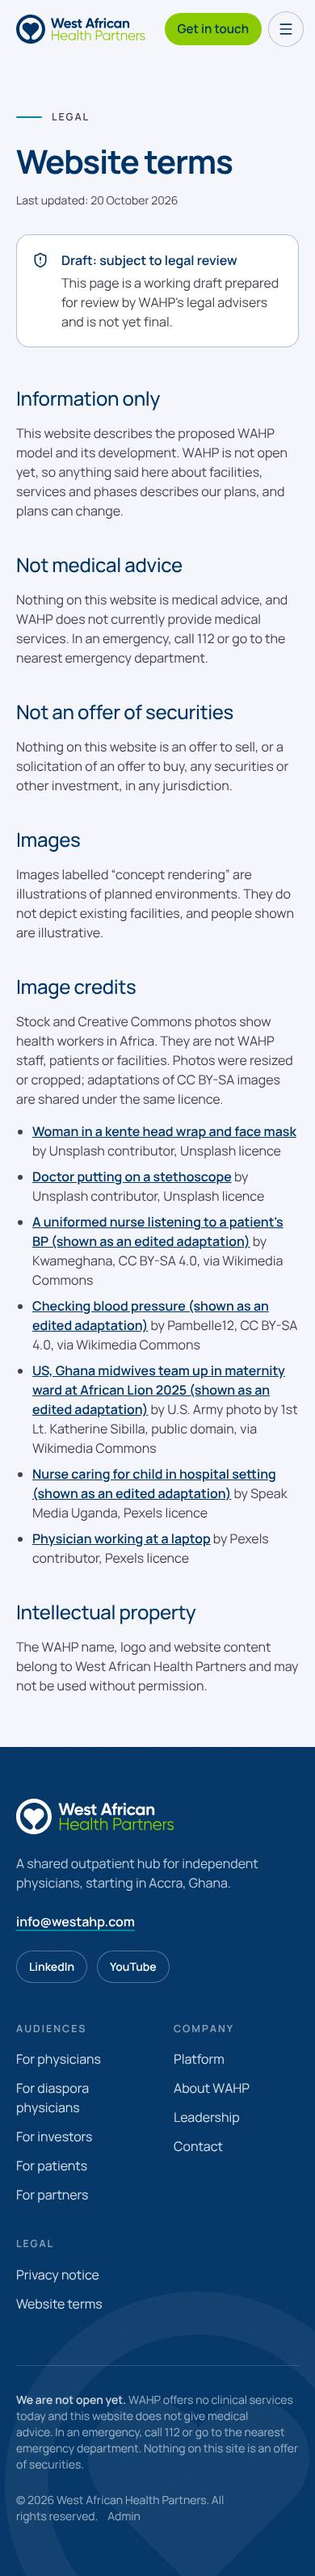
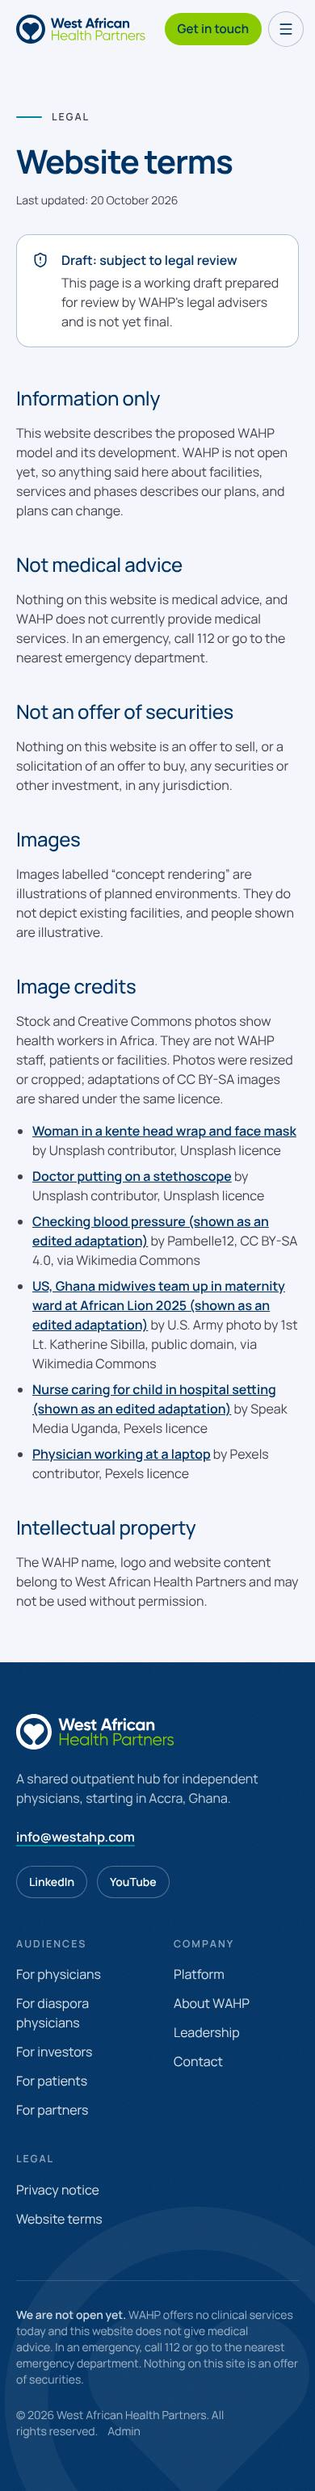
Add "The infrastructure gap" to About; new Partners card photo
- About: the older WordPress build's "The infrastructure gap" section as
  a navy band between the mission and the founder's letter. Headline with
  highlighted words, the hospital corridor image, and a card with the
  sourced 71.8% emigration figure and an animated bar. The unsourced
  "72%", "WHO Target 15%" and "since 2018" lines are not used.
- Home: the Partners card uses the older build's "Capital Partners"
  picture, still titled "Partners". The figures on the pictured screen
  are blurred so they cannot read as WAHP investment numbers.
- Remove the now unused community-bp-screening photo and its credit.
- Docs: asset provenance, approval rows, log entry, screenshots.

Claude-Session: https://claude.ai/code/session_01Gg6TP4sXwQchVWe3LbXuH5

diff --git a/src/components/sections/infrastructure-gap.tsx b/src/components/sections/infrastructure-gap.tsx
@@ -1,0 +1,80 @@
+import { Wave } from "@/components/graphics/wave";
+import { Eyebrow } from "@/components/ui/primitives";
+import { SiteImage } from "@/components/ui/site-image";
+import { approvedClaim } from "@/content/claims";
+
+/**
+ * "The infrastructure gap", after the section of the same name on the older WordPress build (owner's request,
+ * 5 Nov 2026): a headline with highlighted words, a hospital corridor, and an emigration card with a bar.
+ * Differences from the original: the sourced 71.8% figure replaces "72%" (inconsistent attribution), the
+ * unsourced "WHO target 15%" bar is left out, the highlights are light teal (green is for CTAs), and the
+ * reason doctors leave is stated as WAHP's view, not as a survey finding.
+ */
+export function InfrastructureGap({ above = "text-paper", below = "text-white" }: { above?: string; below?: string }) {
+  const migration = approvedClaim("stat-migration-intent");
+  return (
+    <section aria-labelledby="infra-gap-heading" className="grain on-dark relative overflow-hidden bg-navy text-white">
+      <Wave flip className={`-mt-px ${above}`} />
+      <div className="container-wahp py-16 md:py-24">
+        <div className="grid items-center gap-12 lg:grid-cols-2 lg:gap-16">
+          <div className="reveal max-w-xl">
+            <Eyebrow dark>The infrastructure gap</Eyebrow>
+            <h2 id="infra-gap-heading" className="mt-5 text-headline font-bold text-white">
+              The <span className="text-teal-300">talent</span> exists. The{" "}
+              <span className="text-teal-300">infrastructure</span> around it is fragmented, inefficient and ready for{" "}
+              <span className="text-teal-300">transformation.</span>
+            </h2>
+            <p className="mt-6 text-lead text-white/75">
+              {migration && "71.8% of doctors surveyed in Ghana said they intend to work abroad. "}
+              We do not believe it is because they want to leave. Too often the infrastructure to practise at their best
+              is simply not there.
+            </p>
+          </div>
+          <SiteImage
+            name="hospitalCorridor"
+            className="reveal reveal-media"
+            aspect="aspect-[16/10]"
+            dark
+            sizes="(min-width: 1024px) 50vw, 100vw"
+          />
+        </div>
+
+        {migration && (
+          <div className="reveal mt-14 grid items-center gap-8 rounded-panel bg-white/[0.05] p-5 ring-1 ring-white/10 ring-inset md:mt-20 md:grid-cols-[minmax(0,5fr)_minmax(0,7fr)] md:gap-12 md:p-8">
+            <SiteImage
+              name="doctorWindow"
+              className="reveal-media"
+              aspect="aspect-[4/3]"
+              rounded="rounded-card"
+              dark
+              sizes="(min-width: 768px) 40vw, 100vw"
+            />
+            <div className="md:pr-4">
+              <h3 className="text-title font-semibold text-white">
+                <span className="text-teal-300">71.8%</span> intend to work abroad
+              </h3>
+              <p className="mt-4 text-white/75">
+                In a published survey of doctors working in Ghana, 71.8% said they intend to work abroad. WAHP exists to
+                make staying the easier choice.
+              </p>
+              <div className="mt-8">
+                <div className="flex items-baseline justify-between gap-4 text-sm">
+                  <span className="eyebrow text-steel">Intend to work abroad</span>
+                  <span className="font-semibold text-white tabular-nums">71.8%</span>
+                </div>
+                <div aria-hidden className="mt-3 h-2 overflow-hidden rounded-full bg-white/10">
+                  <div
+                    className="stat-bar h-full rounded-full bg-gradient-to-r from-teal to-teal-300"
+                    style={{ width: "71.8%", transitionDelay: "300ms" }}
+                  />
+                </div>
+                <p className="mt-4 text-xs text-white/60">Source: Published survey of doctors working in Ghana</p>
+              </div>
+            </div>
+          </div>
+        )}
+      </div>
+      <Wave className={`-mb-px ${below}`} />
+    </section>
+  );
+}

diff --git a/src/components/ui/site-image.tsx b/src/components/ui/site-image.tsx
@@ -9,7 +9,6 @@ import patientPortrait from "../../../public/images/photos/patient-portrait.webp
 import investorLounge from "../../../public/images/photos/investor-lounge.webp";
 import physicianTealScrubs from "../../../public/images/photos/physician-teal-scrubs.webp";
 import diasporaDoctor from "../../../public/images/photos/diaspora-doctor.webp";
-import communityScreening from "../../../public/images/photos/community-bp-screening.webp";
 import clinicBpCheck from "../../../public/images/photos/clinic-bp-check.webp";
 import midwivesNewborn from "../../../public/images/photos/midwives-newborn.webp";
 import nurseChildWard from "../../../public/images/photos/nurse-child-ward.webp";
@@ -18,6 +17,9 @@ import physicianLaptop from "../../../public/images/photos/physician-laptop.webp
 import physicianStethoscopeGreen from "../../../public/images/photos/physician-stethoscope-green.webp";
 import doctorStethoscope from "../../../public/images/photos/doctor-stethoscope.webp";
 import teamLaptopCelebration from "../../../public/images/photos/team-laptop-celebration.webp";
+import hospitalCorridor from "../../../public/images/photos/hospital-corridor.webp";
+import doctorWindow from "../../../public/images/photos/doctor-window.webp";
+import partnersPresentation from "../../../public/images/photos/partners-presentation.webp";
 
 /**
  * Every image on the site, with its kind:
@@ -88,10 +90,11 @@ const images = {
     position: "50% 12%",
     alt: "A smiling doctor in teal scrubs and glasses, stethoscope round his neck, arms folded.",
   },
-  communityScreening: {
-    src: communityScreening,
+  partnersPresentation: {
+    src: partnersPresentation,
     kind: "illustrative",
-    alt: "A nurse in a green uniform takes a patient's blood pressure at an outdoor community health screening.",
+    position: "50% 30%",
+    alt: "A woman in a navy suit presents charts on a wall screen to colleagues in a high rise meeting room.",
   },
   clinicBpCheck: {
     src: clinicBpCheck,
@@ -135,6 +138,17 @@ const images = {
     kind: "stock",
     position: "50% 35%",
     alt: "Two young professionals high five over a laptop at an outdoor café table.",
+  },
+  hospitalCorridor: {
+    src: hospitalCorridor,
+    kind: "illustrative",
+    alt: "A crowded hospital corridor: patients wait on benches and beds line the wall while a doctor walks through.",
+  },
+  doctorWindow: {
+    src: doctorWindow,
+    kind: "illustrative",
+    position: "60% 30%",
+    alt: "A young doctor in a white coat looks out of a louvred window on a hospital ward.",
   },
 } satisfies Record<string, { src: StaticImageData; kind: Kind; alt: string; position?: string }>;
 

diff --git a/src/app/(site)/about/page.tsx b/src/app/(site)/about/page.tsx
@@ -1,5 +1,6 @@
 import type { Metadata } from "next";
 import { CtaBand } from "@/components/sections/cta-band";
+import { InfrastructureGap } from "@/components/sections/infrastructure-gap";
 import { PageHero } from "@/components/sections/page-hero";
 import { Eyebrow, Section, SectionIntro } from "@/components/ui/primitives";
 import { SiteImage } from "@/components/ui/site-image";
@@ -68,13 +69,16 @@ export default function AboutPage() {
               <Eyebrow as="h2">Where we start</Eyebrow>
               <p className="mt-4 text-lead text-arsenic">
                 Phase 1 is the Accra hub. It is not open yet: services start only once the building is finished,
-                staffed, licensed and approved. We are working through Ghana&apos;s healthcare and facility licensing now,
-                and WAHP will meet every national requirement before it opens.
+                staffed, licensed and approved. We are working through Ghana&apos;s healthcare and facility licensing
+                now, and WAHP will meet every national requirement before it opens.
               </p>
             </div>
           </div>
         </div>
       </Section>
+
+      {/* The infrastructure gap, after the older WordPress build's section of the same name. */}
+      <InfrastructureGap above="text-paper" below="text-white" />
 
       {/* Founder's letter */}
       <Section tone="white" labelledBy="origin-heading">

diff --git a/src/app/(site)/terms/page.tsx b/src/app/(site)/terms/page.tsx
@@ -21,12 +21,6 @@ const credits = [
     href: "https://unsplash.com/photos/9aBsCd9Fvgc",
   },
   {
-    title: "A uniformed nurse listening to a patient's BP (shown as an edited adaptation)",
-    by: "Kwameghana",
-    licence: "CC BY-SA 4.0, via Wikimedia Commons",
-    href: "https://commons.wikimedia.org/wiki/File:A_uniformed_nurse_listening_to_a_patient%27s_BP.jpg",
-  },
-  {
     title: "Checking blood pressure (shown as an edited adaptation)",
     by: "Pambelle12",
     licence: "CC BY-SA 4.0, via Wikimedia Commons",

diff --git a/src/components/sections/audience-paths.tsx b/src/components/sections/audience-paths.tsx
@@ -42,7 +42,7 @@ const paths: {
   },
   {
     title: "Partners",
-    image: "communityScreening",
+    image: "partnersPresentation",
     body: "Hospitals, labs, suppliers and health organisations who want to work with us.",
     cta: "Discuss partnership",
     href: "/contact?type=partnership",

diff --git a/docs/ASSET_INVENTORY.md b/docs/ASSET_INVENTORY.md
@@ -18,7 +18,7 @@
 
 **Not used from the source sites:**
 - Seven hospital and university logos (Corewell, NYU Langone, Sanford, Michigan Medicine, IU Health, Columbia Mailman, Yale New Haven). They appear as an unlabelled strip and would imply affiliations.
-- The "capital partners" image with a dashboard showing "$245.7M", which would read as investment figures.
+- ~~The "capital partners" image with a dashboard showing "$245.7M", which would read as investment figures.~~ Used since 5 Nov 2026 at the owner's request, with the figures blurred (see below).
 - Duplicates of the three concept renders, and duplicate headshots.
 - Google Maps tiles, the loading GIF, and screenshots of UI mock-ups.
 - Clinicians in surgical masks or PPE, which look like pandemic-era imagery.
@@ -62,3 +62,13 @@
 **Home infrastructure gap photo (22 Oct 2026).** `village-hospital-yard` was removed. The section now uses the owner-supplied `doctors-meeting.webp` (738×416). **Licence to confirm before launch:** it looks like a news agency photograph, and those are almost always licensed per use.
 
 **Investors banner photo (22 Oct 2026).** `community-outreach` was removed. The banner above the introduction form now uses the owner-supplied `team-laptop-celebration.webp` (678×452). **Licence to confirm:** the source is unknown.
+
+**Infrastructure gap section and Partners card (5 Nov 2026).** At the owner's request, after reviewing the older WordPress build:
+
+| File | Origin | Rights / approval | Notes |
+| --- | --- | --- | --- |
+| `public/images/photos/hospital-corridor.webp` | Older build upload `2026/04/file_000000002a04720b98457feae843b609.png`; appears AI-generated (ChatGPT naming). Restored from this repo's own 21 Oct copy | Owner-supplied; **owner to confirm usage rights** | About page, "The infrastructure gap". Badged "Illustrative image". Not a WAHP facility; its signs (laboratory, X-ray) belong to the pictured hospital, not to WAHP |
+| `public/images/photos/doctor-window.webp` | Older build upload `2026/04/file_00000000fbc0720b8324a0c010bfaace.png` (1536×1024); appears AI-generated | As above | About page emigration card. Decoded and re-encoded from the WordPress export. Badged "Illustrative image" |
+| `public/images/photos/partners-presentation.webp` | Older build upload `2026/04/file_00000000f17872089c870b44cdd56662.png` (1448×1086, the "Capital Partners" card); appears AI-generated | As above | Home Partners card, titled "Partners" (not "Capital Partners", owner instruction). The on-screen amounts, percentages and dates were blurred so they cannot be read as WAHP investment figures; the chart shapes and legend labels remain. Badged "Illustrative image" |
+
+`community-bp-screening.webp` (the previous Partners card photo) was removed with its Terms credit, as it is no longer used.

diff --git a/docs/IMPLEMENTATION_LOG.md b/docs/IMPLEMENTATION_LOG.md
@@ -218,3 +218,9 @@ A WordPress export of wahp.viewyourprojecthere.com arrived by WeTransfer (dated 
 - **Sharper headshots.** The five team photos were re-encoded from the original uploads in the export (same framing, quality 90). Nakeitheya Smith's is now 1080px.
 - **Not brought over:** the green headline words (owner rule), the hospital logo strip (implies affiliations), the crowded corridor photo (removed earlier at the owner's request), market size figures and the advisory board placeholders.
 - **Security note.** The export and the live WordPress site contain injected malware. Only the five headshots were taken from the export, and they were decoded and re-encoded rather than copied.
+
+## 5 Nov 2026, "The infrastructure gap" on About; new Partners card photo
+
+- **About page:** the older build's "The infrastructure gap" section is back as a navy band between "Our mission" and the founder's letter (owner request: anywhere but Home). Headline with highlighted words ("talent", "infrastructure", "transformation", in light teal), the hospital corridor image, and a card with the doctor at the window, "71.8% intend to work abroad" and an animated bar. It uses the sourced 71.8% (claim `stat-migration-intent`; the stat parts hide if that claim is withdrawn), not the older "72%", and leaves out the unsourced "WHO Target 15%" bar and "accelerated since 2018" line. Component: `components/sections/infrastructure-gap.tsx`.
+- **Home Partners card:** now uses the older build's "Capital Partners" picture (owner request), still titled "Partners". The amounts, percentages and dates on the pictured screen are blurred so they cannot be read as WAHP's investment figures. `community-bp-screening` and its Terms credit were removed.
+- Both new images and the corridor image appear AI-generated and carry the "Illustrative image" badge; usage rights to confirm (see `ASSET_INVENTORY.md`).

diff --git a/docs/CONTENT_APPROVAL.md b/docs/CONTENT_APPROVAL.md
@@ -48,6 +48,7 @@ The decisions below block or shape public launch. The machine-readable register 
 | "20 physicians have signed Letters of Intent" | Owner confirmed 21 Oct 2026 | **Used** on /investors and /physicians |
 | 60+ physicians surveyed, 3 studies completed, 5-person team | Newer site build; Questionnaire #29 | Used on /investors ("Groundwork to date") |
 | Workforce stats: 1.43 per 10,000 (WHO 2022), 1:5,707 (MoH 2021), 11,867 registered (GMDC 2024), 71.8% migration intent | Newer site, The Problem page | Used on home with sources. **The 71.8% figure needs a full citation** |
+| "The talent exists. The infrastructure around it is fragmented, inefficient and ready for transformation." | Older WordPress build, Home | Used on /about (5 Nov 2026, owner request), with the 71.8% figure and the line "We do not believe it is because they want to leave", stated as WAHP's view. The older build's "72% … Ghana Medical Association surveys", "accelerated since 2018" and "WHO Target 15%" are **not used** (unsourced) |
 | Market sizes ($1.21B, $214M, 42%, 36.7%) | Newer site, investors page | Not used (investor-materials territory) |
 | Rule 506(c) accredited-investor notice + acknowledgement | Newer site, investors page | Used on /investors and in the investor form. **Counsel to confirm** |
 | Imaging "within the same facility", on-site lab "results flow digitally" | Newer site | Reframed as Phase 2/3 *planned/future* |
